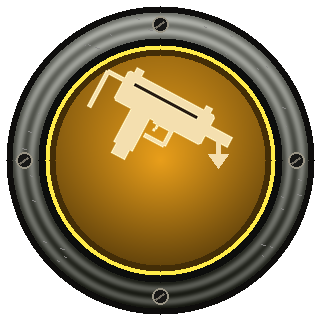
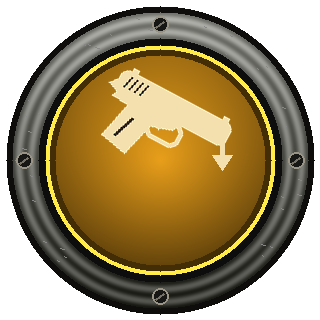
Stabilize Chinba waiting frame and update pistol/disabled button appearance (#17)

Changed region(s): [[0.25, 0.1875, 0.75, 0.5312], [0.4062, 0.4375, 0.4375, 0.4688]]

diff --git a/build_buttons.py b/build_buttons.py
@@ -25,33 +25,27 @@ for name,col in [('aim',(193,34,34)),('reject',(192,131,22)),('admit',(25,132,68
  for x,y in [(160,24),(296,160),(160,296),(24,160)]:
   d.ellipse((x-8,y-8,x+8,y+8),fill='#171716',outline='#999485',width=2);d.line((x-4,y+3,x+4,y-3),fill='#777267',width=2)
  cream='#f4dfaf'
- if name in ('shoot','lower'):
-  # Compact, box-shaped MAC silhouette; angled down for the lower action.
+ if name in ('aim','shoot','lower'):
+  # Makarov PM-style compact pistol: rounded slide and short curved grip.
   gun=Image.new('RGBA',(320,320));g=ImageDraw.Draw(gun)
-  g.rounded_rectangle((105,91,203,124),radius=3,fill=cream)
-  g.rectangle((203,102,228,113),fill=cream)
-  g.rectangle((125,121,146,161),fill=cream)
-  g.rectangle((128,158,143,172),fill=cream)
-  g.line((151,124,171,124,171,141,149,141),fill=cream,width=5)
-  g.line((157,124,155,133),fill=cream,width=3)
-  g.line((105,102,87,102,87,142),fill=cream,width=5)
-  g.rectangle((111,85,119,92),fill=cream)
-  g.rectangle((190,86,197,92),fill=cream)
-  g.line((117,101,187,101),fill='#32271c',width=3)
+  g.rounded_rectangle((100,91,224,116),radius=8,fill=cream)
+  g.polygon([(106,111),(177,111),(172,124),(150,131),(140,167),(111,161),(120,123),(102,121)],fill=cream)
+  g.rounded_rectangle((146,116,183,141),radius=10,outline=cream,width=5)
+  g.line((160,119,157,130),fill=cream,width=4)
+  g.rectangle((211,87,217,93),fill=cream)
+  g.rectangle((109,87,115,93),fill=cream)
+  g.polygon([(100,103),(93,111),(103,115)],fill=cream)
+  for x in [111,117,123,129]:g.line((x,96,x-3,108),fill='#32271c',width=2)
+  g.line((131,132,123,155),fill='#32271c',width=3)
   if name=='lower':
    gun=gun.rotate(-28,resample=Image.Resampling.BICUBIC,center=(160,128))
-   im.alpha_composite(gun)
-   d=ImageDraw.Draw(im)
-   d.line((218,135,218,161),fill=cream,width=5)
-   d.polygon([(208,154),(218,168),(228,154)],fill=cream)
-  else:
-   im.alpha_composite(gun)
-   d=ImageDraw.Draw(im)
-   d.polygon([(232,106),(240,95),(238,104),(250,108),(238,113),(240,121),(232,112)],fill=cream)
- elif name=='aim':
-  d.polygon([(104,93),(220,93),(220,116),(176,116),(166,130),(145,130),(133,160),(108,154),(120,116),(104,116)],fill=cream)
-  d.rounded_rectangle((143,114,178,138),radius=8,outline=cream,width=6)
-  d.line((156,115,154,126),fill=cream,width=4)
+  im.alpha_composite(gun);d=ImageDraw.Draw(im)
+  if name=='lower':
+   d.line((222,140,222,162),fill=cream,width=5)
+   d.polygon([(212,155),(222,170),(232,155)],fill=cream)
+  elif name=='shoot':
+   d.polygon([(229,101),(240,93),(237,103),(249,107),(237,112),(240,121),(229,113)],fill=cream)
+
  else:
   d.line((119,158,119,82,170,82,170,103),fill=cream,width=8)
   d.line((119,158,170,158,170,140),fill=cream,width=8)
